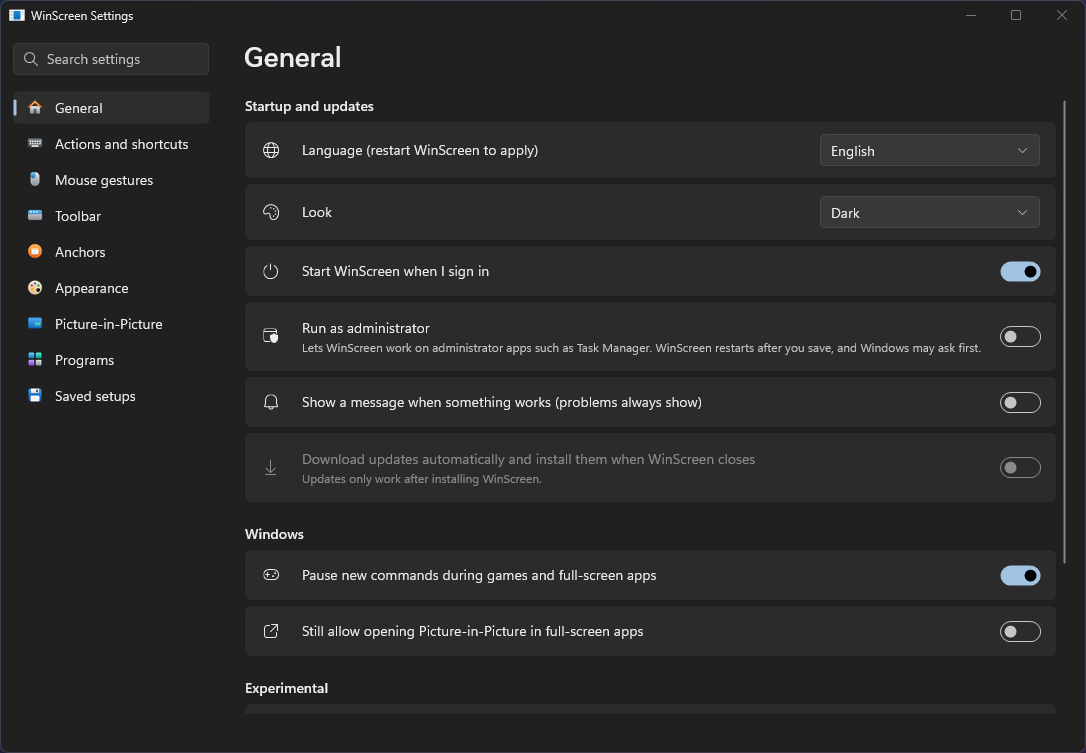
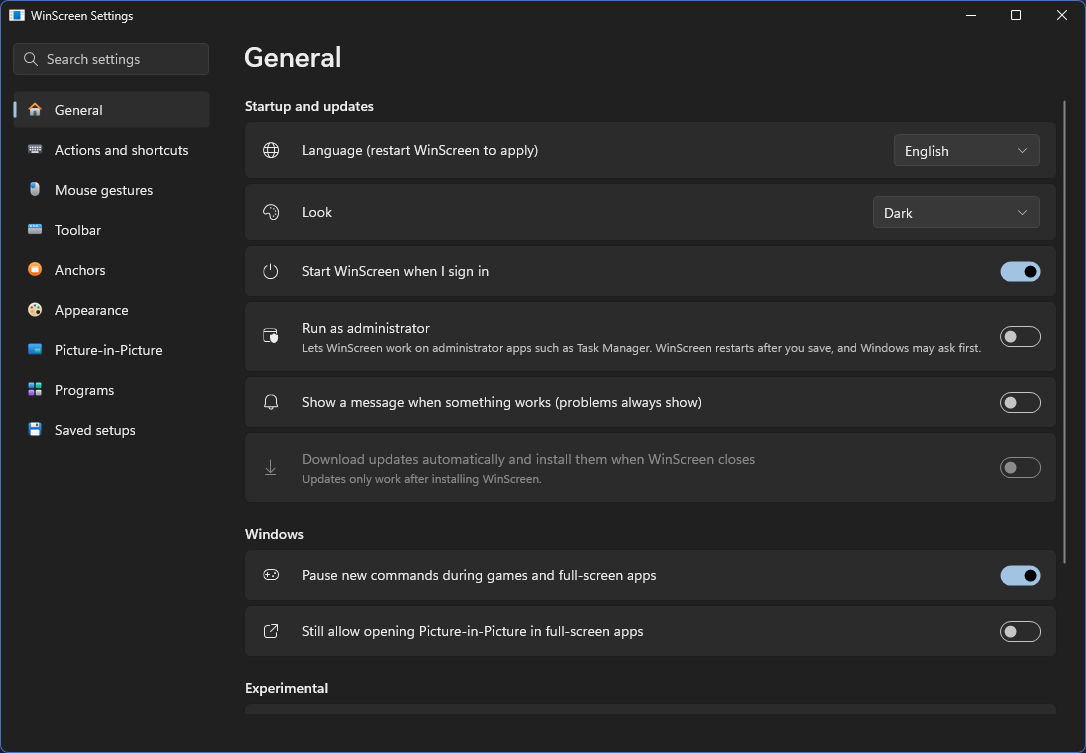
Refresh the README, user guides and screenshots
New screenshots of Settings and a window's menu. The README explains using
apps through a view, lists the features in full, and points to a new
Limitations at a glance list on the compatibility page instead of listing
them itself. The user guides show Settings' pages in the app's own order.

diff --git a/README.md b/README.md
@@ -30,53 +30,73 @@ live view, or bring a buried window back with one click. No account, no trial, n
   <img src="docs/assets/screenshots/settings-general.png" width="720" alt="WinScreen Settings, General page, in the dark look">
 </p>
 <p align="center">
-  <img src="docs/assets/screenshots/window-menu.png" width="330" alt="A window's menu, with the Effects menu open">
-  <img src="docs/assets/screenshots/settings-anchors.png" width="470" alt="Settings, Anchors page">
+  <img src="docs/assets/screenshots/window-menu.png" width="360" alt="A window's menu, with the Effects menu open">
+  <img src="docs/assets/screenshots/settings-appearance.png" width="440" alt="Settings, Appearance page, with sliders for opacity">
 </p>
 
-## Highlights
+## Use apps through a small view
 
-**Keep windows where you need them**
-- Pin any window on top, and make it see-through or click-through.
-- Scroll with Ctrl+Alt to change a window's opacity right under the pointer.
-- Remember a program's setup, so its windows open pinned, see-through or dark every time.
+Press **Ctrl+Alt+P** on a window for a small live view of it that stays on top. Turn on **Interactive** in the view's
+menu *(experimental)* and you can use the app right inside the view: click, type, scroll, select text and open menus.
+The real window stays hidden out of the way, so a video, chat or document stays at hand in a corner while you work.
+
+**Enhanced hover** keeps hover effects working in browsers and apps like VS Code and Discord. For an app that doesn't
+work well through a view, such as a game, a click on its view can bring the real window back instead, and it hides
+again when you switch away. [What works where](docs/FEATURE_COMPATIBILITY.md) lists the details.
+
+## Features
+
+**Windows**
+- Pin on top, with an optional colored border
+- See-through, with a default level, Ctrl+Alt+wheel under the pointer, and solid again while the mouse is over it
+- Click-through
+- Borderless, fill the display, dark title bar
+- Remember a program's setup for its windows from then on
 
 **Picture-in-Picture**
-- Open a small live view of a window, a whole display, or part of the screen.
-- Crop it, zoom in, resize it, and save the layout as a preset.
-- Hide the original and keep the view updating, minimize views to the taskbar, and preview them on hover.
-- Use a view directly, clicking and scrolling inside it *(experimental)*.
+- Live views of a window, a whole display or part of the screen
+- Crop, zoom, resize, presets and saved sources
+- Keep the original hidden and the view updating
+- Use apps through a view, with Enhanced hover and middle-click scrolling *(experimental)*
+- Per-view frame limit, opacity, position lock and click-through
+- Minimize views to the taskbar, hover preview and reading lens
+- Views that move away from text and pictures *(experimental)*
 
 **Anchors**
-- Floating buttons that bring a window back instantly.
-- Added for you when a window gets buried under others, if you like.
+- Floating buttons that bring a window back with a click
+- Drop files on them, rest the pointer for a live preview
+- Added and removed for you as windows get covered
+- Take their windows off the taskbar, or hide them all for now
 
-**Arrange windows**
-- Snap a window to nine places, move it to the next display, or type an exact position and size.
-- Move and resize from anywhere by holding a key and dragging.
-- Borderless mode, fill the display, roll up to the title bar, send to the back.
+**Arrange**
+- Nine places on the screen, the next display, an exact position and size, the previous position
+- Move and resize by holding Alt or Win and dragging, with edge snapping
+- Roll up to the title bar *(experimental)*, send to the back
 
 **Effects** *(experimental)*
-- Dark mode, and a version that keeps pictures and video as they are.
-- Glass that fades the background but keeps text and pictures.
-- Crop a window to the part you need, or shrink it to a small live tile.
+- Dark mode, and one that keeps pictures and video as they are
+- Glass that fades only the background
+- Crop a window, or shrink it to a live tile
 
-**Easy to use and safe to try**
-- A toolbar on title bars, a mouse menu, and shortcuts you can change.
-- Undo everything with Ctrl+Alt+R. If WinScreen stops unexpectedly, your windows go back the next time it starts.
-- Lightweight: about 20 MB of memory and almost no processor time while it waits in the tray.
-- English, 简体中文 and 繁體中文.
+**Everyday use**
+- A toolbar on title bars, a window menu on Ctrl+right-click, and a full tray menu
+- Shortcuts you can change, and a searchable list of every action
+- Settings that look like Windows 11's, in light or dark
+- Programs to leave alone, or the only ones to work on
+- Pauses during games and full-screen apps
+- Runs as administrator when you want it to, for apps such as Task Manager
+- Put everything back with Ctrl+Alt+R; windows come back even if WinScreen stops unexpectedly
+- Automatic updates, and settings you can move to another PC
+- About 20 MB of memory and almost no processor time while it waits in the tray
+- English, 简体中文 and 繁體中文
 
 ## Install
 
 Download **WinScreen-…-x64-Setup.exe** from [Releases](https://github.com/DarkLian/WinScreen/releases) and run it. It works on
-Windows 10 (version 2004 or later) and Windows 11, on 64-bit Intel or AMD PCs (x64).
-
-ARM PCs aren't supported for now. We don't have one to test on, so new releases have no ARM version, and earlier ARM
-versions won't get updates.
+Windows 10 (version 2004 or later) and Windows 11, on 64-bit Intel or AMD PCs (x64). See
+[what works where](docs/FEATURE_COMPATIBILITY.md) for other systems and for what each feature can and can't do.
 
 You don't need anything else installed, and it runs without administrator rights. WinScreen lives in the system tray.
-To use it on apps that run as administrator, start WinScreen as administrator too.
 
 The installer isn't signed yet, so Windows may say it doesn't recognize it. Choose **More info**, then **Run anyway**.
 To remove it, go to **Settings → Apps → Installed apps** in Windows.

diff --git a/docs/FEATURE_COMPATIBILITY.md b/docs/FEATURE_COMPATIBILITY.md
@@ -1,10 +1,32 @@
 # WinScreen feature compatibility
 
 What each WinScreen feature does with each kind of window, as the code behaves today (last checked
-2026-11-10). Where the code and its tests don't settle a case, it says
+2026-11-12). Where the code and its tests don't settle a case, it says
 **Unverified** rather than guessing.
 
 Paths are relative to `src/WinScreen/` unless they start with `tests/`.
+
+## Limitations at a glance
+
+- **Systems:** Windows 10 (version 2004 or later) and Windows 11 on x64 only. ARM PCs and 32-bit Windows aren't
+  supported (below).
+- **Apps running as administrator,** such as Task Manager, can only be changed when WinScreen runs as administrator
+  too: turn on **Settings → General → Run as administrator**.
+- **Games and full-screen apps:** commands pause while one is in front, and views can't appear over games in
+  exclusive full screen.
+- **Views** of a minimized app show its last picture, because the app stops drawing. Protected video may show as black.
+- **Smooth mode** shows Windows' yellow capture border on Windows 10; on Windows 11 WinScreen asks to leave it off.
+- **Screenshots and screen sharing** don't show views of a display or region, or Anchors that move off content.
+- **Dark, Glass and Crop** depend on how each app draws itself.
+- **Using apps through a view** *(experimental)*:
+  - Some newer controls, in Store apps and parts of File Explorer, take clicks, right-clicks and scrolling, but not
+    hover, dragging or selecting.
+  - Native tooltips may not show, and some modern menus can flicker.
+  - When the app asks you something, its window comes back so you can answer.
+  - A few apps can't be hidden, such as PowerShell ISE.
+  - Games, and apps with anti-cheat, should use **Show original** instead.
+- **Enhanced hover** needs Windows 11 on an x64 PC and a 64-bit app.
+- **Snap Layouts** from Windows 11 aren't offered while moving a window with Alt+drag; WinScreen snaps to edges itself.
 
 ## Supported systems
 
@@ -289,8 +311,8 @@ Tested: Windows 10 VM (test windows, Edge, Calculator, Settings, and at 150% sca
 - **Win 11 Snap Layouts panel** and Snap Assist aren't available to Alt-drag (no public API). Edge snapping is
   WinScreen's own.
 - **A lost mouse hook mid-drag** can leave a window following the pointer until the next click.
-- **Elevated windows** are refused by tagging, not by an up-front check. Running WinScreen as administrator lifts this;
-  start-at-sign-in doesn't, because it starts WinScreen without administrator rights.
+- **Elevated windows** are refused by tagging, not by an up-front check. Running WinScreen as administrator lifts this,
+  and with **Run as administrator** on, starting with Windows keeps those rights.
 - **Borderless windows from other apps** (not WinScreen's Borderless) are treated as normal unless they fill the
   screen. Most cells marked ❔ under Borderless refer to WinScreen's own Borderless and haven't been tested.
 - **Multiple monitors with different scaling**: snapping does a second pass if the margins change on the way, but

diff --git a/docs/USER_GUIDE.md b/docs/USER_GUIDE.md
@@ -36,6 +36,8 @@ You can change or clear any of these in **Settings → Actions and shortcuts**. 
 
 Other commands, like moving a window to a corner, have no shortcut until you give them one.
 
+<p align="center"><img src="assets/screenshots/settings-actions.png" width="640" alt="Settings, Actions and shortcuts page"></p>
+
 ## Pin and see-through
 
 - **Ctrl+Alt+T** keeps a window above the others.
@@ -129,6 +131,8 @@ left or right edge of the screen to fill that half, to a corner for a quarter, o
 
 The tray and window menus also have an **Opacity** slider, a grid of nine places to put the window (so their **Arrange window** lists only the other commands), **Borderless**, **Fill display** and **Dark title bar**. **Copy** and **Open file location** are under **More**.
 
+<p align="center"><img src="assets/screenshots/window-menu.png" width="360" alt="A window's menu, with the Effects menu open"></p>
+
 ## Effects *(experimental)*
 
 - **Dark mode** swaps light and dark. Windows that are already dark are left alone.
@@ -150,15 +154,15 @@ Press it again on a plain window to forget the setup, or remove it in **Settings
 
 | Page | What you'll find |
 | --- | --- |
-| General | Language, notifications, starting with Windows, running as administrator, updates, experimental features, and moving your settings to another PC |
+| General | Language, light or dark look, notifications, starting with Windows, running as administrator, updates, experimental features, and moving your settings to another PC |
 | Actions and shortcuts | Everything WinScreen can do, with its shortcut. Select an action to change its shortcut |
-| Programs | Programs WinScreen should leave alone, or the only ones it should work on |
-| Saved setups | Program setups you've remembered |
-| Picture-in-Picture | How views look and behave |
 | Mouse gestures | Move and resize with a key, and the mouse menu |
-| Appearance | Opacity, pin border and effects |
 | Toolbar | Where the toolbar appears, how quickly, and which buttons it shows |
 | Anchors | Automatic Anchors and how Anchors look |
+| Appearance | Opacity, pin border and effects |
+| Picture-in-Picture | How views look and behave |
+| Programs | Programs WinScreen should leave alone, or the only ones it should work on |
+| Saved setups | Program setups you've remembered |
 
 ## Putting things back
 
@@ -192,3 +196,5 @@ the newer installer. Your settings stay as they are.
   it bothers you.
 - Views of a display or region, and Anchors that move off content, don't show up in your own screenshots or screen sharing.
 - Results of Dark, Glass and Crop depend on how each app draws itself.
+
+See [Limitations at a glance](FEATURE_COMPATIBILITY.md#limitations-at-a-glance) for the full list.

diff --git a/docs/USER_GUIDE.zh-TW.md b/docs/USER_GUIDE.zh-TW.md
@@ -35,6 +35,8 @@
 
 其他命令（例如把視窗移到角落）預設沒有快捷鍵，需要時可以自己設定。
 
+<p align="center"><img src="assets/screenshots/settings-actions.png" width="640" alt="設定的「操作與快捷鍵」頁面"></p>
+
 ## 置頂與透明
 
 - **Ctrl+Alt+T** 讓視窗保持在其他視窗之上。
@@ -122,6 +124,8 @@ Windows 無法隱藏擷取邊框時，隱藏的原視窗會改用標準模式。
 
 系統匣與視窗選單中還有 **不透明度** 滑桿、九個擺放位置的格線（因此其中的 **排列視窗** 只列出其他命令）、**無邊框**、**填滿顯示器** 與 **深色標題列**。**複製** 與 **開啟檔案位置** 在 **更多** 中。
 
+<p align="center"><img src="assets/screenshots/window-menu.png" width="360" alt="視窗選單，已開啟「效果」子選單"></p>
+
 ## 效果 *（實驗性）*
 
 - **深色模式**：交換明暗。已經是深色的視窗會保持原樣。
@@ -142,15 +146,15 @@ Windows 無法隱藏擷取邊框時，隱藏的原視窗會改用標準模式。
 
 | 頁面 | 內容 |
 | --- | --- |
-| 一般 | 語言、通知、開機啟動、以系統管理員身分執行、更新、實驗性功能，以及把設定帶到另一台電腦 |
+| 一般 | 語言、淺色或深色外觀、通知、開機啟動、以系統管理員身分執行、更新、實驗性功能，以及把設定帶到另一台電腦 |
 | 操作與快捷鍵 | WinScreen 的所有功能及其快捷鍵。選取一個操作即可變更快捷鍵 |
-| 程式 | WinScreen 應忽略的程式，或只操作的程式 |
-| 已儲存的設定 | 已記住的程式設定 |
-| 子母畫面 | 檢視的外觀與行為 |
 | 滑鼠手勢 | 按鍵移動與調整大小，以及滑鼠選單 |
-| 外觀 | 透明度、置頂外框與效果 |
 | 工具列 | 工具列出現的位置、速度與按鈕 |
 | 錨點 | 自動錨點與錨點外觀 |
+| 外觀 | 透明度、置頂外框與效果 |
+| 子母畫面 | 檢視的外觀與行為 |
+| 程式 | WinScreen 應忽略的程式，或只操作的程式 |
+| 已儲存的設定 | 已記住的程式設定 |
 
 ## 還原視窗
 
@@ -180,3 +184,5 @@ Windows 無法隱藏擷取邊框時，隱藏的原視窗會改用標準模式。
   **設定 → 子母畫面** 中變更。Windows 10 一律會顯示這圈邊框，介意的話可在那裡改用「標準」模式。
 - 顯示器或區域檢視，以及會避開內容的錨點，不會出現在你自己的螢幕擷取畫面或螢幕分享中。
 - 深色、玻璃與裁切的效果取決於每個應用程式的繪製方式。
+
+完整清單請見[功能相容性中的限制一覽](FEATURE_COMPATIBILITY.md#limitations-at-a-glance)。

diff --git a/docs/USER_GUIDE.zh-CN.md b/docs/USER_GUIDE.zh-CN.md
@@ -35,6 +35,8 @@
 
 其他命令（例如把窗口移到角落）默认没有快捷键，需要时可以自己设置。
 
+<p align="center"><img src="assets/screenshots/settings-actions.png" width="640" alt="设置的“操作与快捷键”页面"></p>
+
 ## 置顶和透明
 
 - **Ctrl+Alt+T** 让窗口保持在其他窗口之上。
@@ -122,6 +124,8 @@ Windows 无法隐藏捕获边框时，隐藏的原窗口会改用标准模式。
 
 托盘和窗口菜单中还有 **不透明度** 滑块、九个摆放位置的网格（因此其中的 **排列窗口** 只列出其他命令）、**无边框**、**填满显示器** 和 **深色标题栏**。**复制** 和 **打开文件位置** 在 **更多** 中。
 
+<p align="center"><img src="assets/screenshots/window-menu.png" width="360" alt="窗口菜单，已打开“效果”子菜单"></p>
+
 ## 效果 *（实验性）*
 
 - **深色模式**：交换明暗。已经是深色的窗口会保持原样。
@@ -142,15 +146,15 @@ Windows 无法隐藏捕获边框时，隐藏的原窗口会改用标准模式。
 
 | 页面 | 内容 |
 | --- | --- |
-| 常规 | 语言、通知、开机启动、以管理员身份运行、更新、实验性功能，以及把设置带到另一台电脑 |
+| 常规 | 语言、浅色或深色外观、通知、开机启动、以管理员身份运行、更新、实验性功能，以及把设置带到另一台电脑 |
 | 操作与快捷键 | WinScreen 的所有功能及其快捷键。选择一个操作即可更改快捷键 |
-| 程序 | WinScreen 应忽略的程序，或只操作的程序 |
-| 已保存的配置 | 已记住的程序配置 |
-| 画中画 | 视图的外观和行为 |
 | 鼠标手势 | 按键移动和调整大小，以及鼠标菜单 |
-| 外观 | 透明度、置顶边框和效果 |
 | 工具栏 | 工具栏出现的位置、速度和按钮 |
 | 锚点 | 自动锚点和锚点外观 |
+| 外观 | 透明度、置顶边框和效果 |
+| 画中画 | 视图的外观和行为 |
+| 程序 | WinScreen 应忽略的程序，或只操作的程序 |
+| 已保存的配置 | 已记住的程序配置 |
 
 ## 还原窗口
 
@@ -180,3 +184,5 @@ Windows 无法隐藏捕获边框时，隐藏的原窗口会改用标准模式。
   **设置 → 画中画** 中更改。Windows 10 总会显示这圈边框，介意的话可在那里改用“标准”模式。
 - 显示器或区域视图，以及会避开内容的锚点，不会出现在你自己的截图或屏幕共享中。
 - 深色、玻璃和裁剪的效果取决于每个应用的绘制方式。
+
+完整列表见[功能兼容性中的限制一览](FEATURE_COMPATIBILITY.md#limitations-at-a-glance)。
